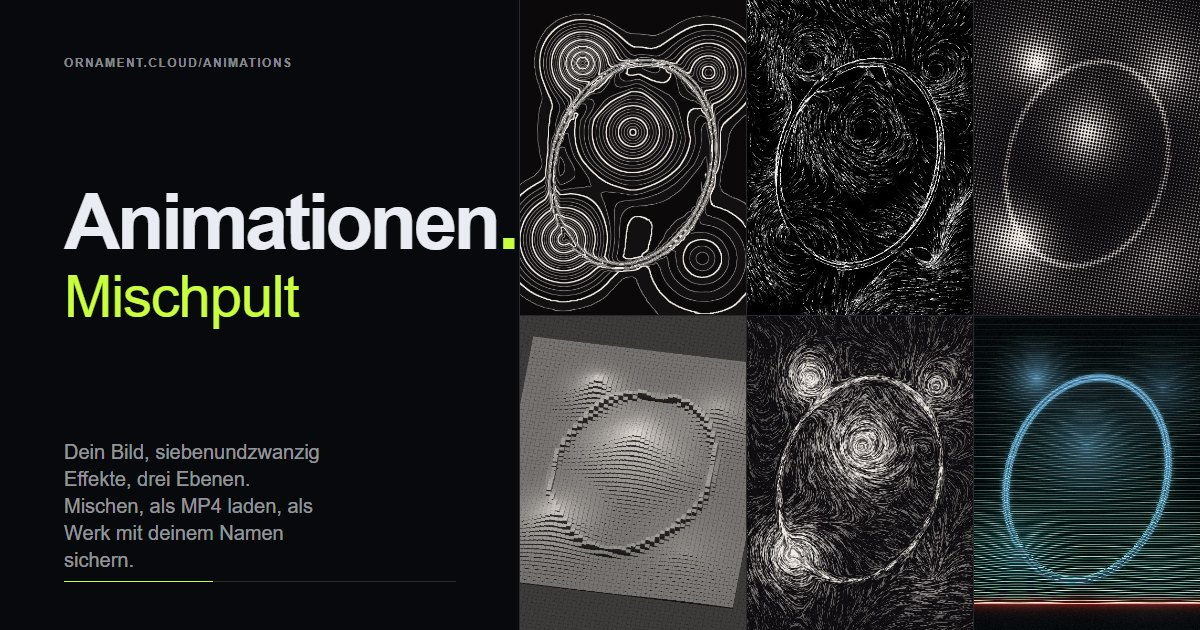
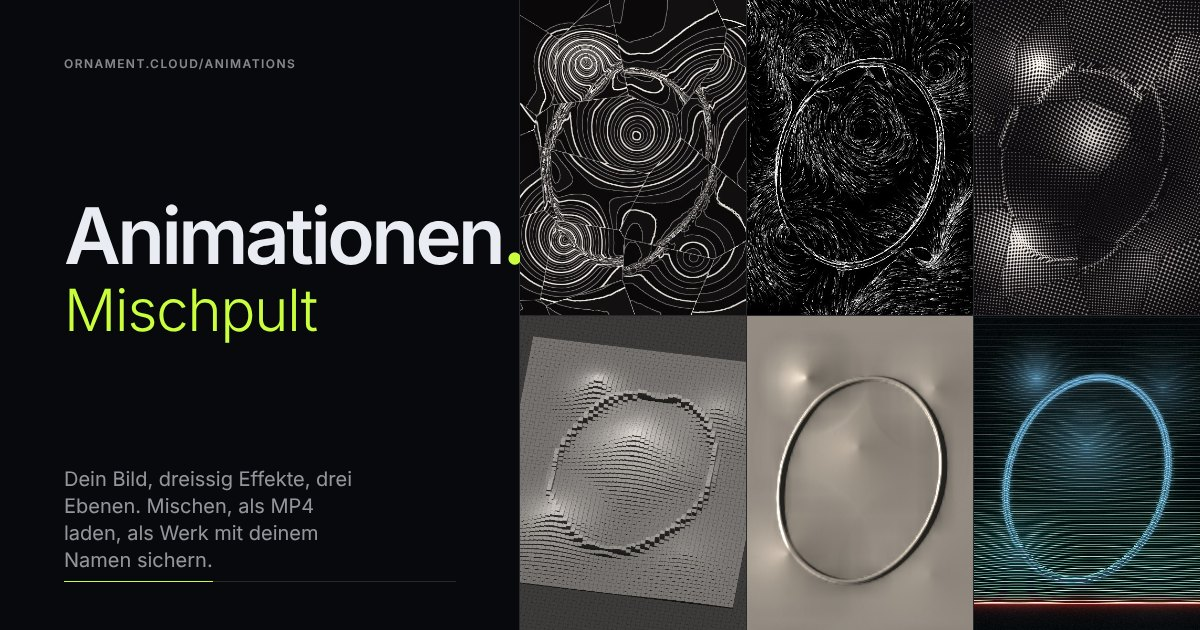
Animationen: Kubismus-Regler für Druckraster und Höhenlinien, Pinselstrom und Aquarell entfernt
Druckraster und Höhenlinien bekommen einen sechsten Regler «Kubismus»: das Bild zerfällt
in Voronoi-Ebenen (dicht im Motiv, gross auf leeren Flächen), jede gedreht, verschoben,
gekippt mit Verkürzung und mit eigener Parallaxe auf das Relief, schattiert, mit Schatten
an der höheren Nachbarebene und feinen Kanten. 0 ist die bisherige Wirkung; gesicherte
Werke ohne den Regler behalten 0 (Ersatzwert alt, wertVon()). Module ?v=4, Vorschaukarte
neu gerechnet, 30 Effekte.

Claude-Session: https://claude.ai/code/session_01EXrTH1UaK7GqZdMZYLEppk

Changed region(s): [[0.0308, 0.0, 1.0, 1.0], [0.0308, 0.6937, 0.3083, 0.9048], [0.0617, 0.0905, 0.2467, 0.1206]]

diff --git a/animations/effekte.js b/animations/effekte.js
@@ -4,10 +4,13 @@
 // und drei Referenzvideos vom 3. November 2026 (holotx, incrprl.dsgn, infinite mantra), hier neu als Shader für den Browser;
 // seit 4. November 2026 ohne Seifenblase und Holo-Kugel, dafür Effekte, die stark aus der Bildinformation schöpfen (am Ende der Liste).
 
-const r = (name, wert) => ({ name, wert });
+// alt: der Wert für Mischungen, die vor dem Regler gesichert wurden (sie behalten so ihr Aussehen), sonst gilt wert
+const r = (name, wert, alt) => alt == null ? { name, wert } : { name, wert, alt };
 // eine Wahl statt eines Schiebers: der Wert bleibt eine Zahl von 0 bis 1 (Stufe k von n ist k / (n − 1)), so laufen Adresse, Export und Werke wie bisher
 const w = (name, stufen, k = 0) => ({ name, wert: k / (stufen.length - 1), stufen });
 /** Stufe einer Wahl aus ihrem Wert 0 … 1 */
+/** Wert des Reglers k einer Ebene: gesetzt, sonst Vorgabe; fehlt er in einer älteren Mischung (andere Regler gesetzt), gilt alt */
+export const wertVon = (def, werte, k) => werte?.[k] ?? (werte?.length && def.regler[k].alt != null ? def.regler[k].alt : def.regler[k].wert);
 export const stufe = (rg, v) => Math.min(rg.stufen.length - 1, Math.max(0, Math.round(v * (rg.stufen.length - 1))));
 
 // gemeinsame Blasen (Tusche und Linsen): Lage, Drift und Atmen je Blase
@@ -31,6 +34,50 @@ vec2 strom(vec2 uv, float l, float px, float wirbel){
   vec2 g = feldG(uv, l, px), t = vec2(-g.y, g.x);
   float a = ln(P(uv) * 1.8, .6) * TAU;
   return normalize(t + (.4 + wirbel * 4.) * vec2(cos(a), sin(a)) + 1e-4);
+}`;
+
+// Kubismus (Wunsch vom 5. November 2026: Raster und Höhenlinien «weiter in richtung kubistische bzw räumliche verformung und
+// strukturierung und veränderung des ausgangsbildes»): das Bild zerfällt in Ebenen (Voronoi-Facetten, sie treiben leicht), und jede
+// sieht es aus einer eigenen Perspektive: gedreht, gezoomt, verschoben, gekippt mit Verkürzung und mit eigener Blickrichtung auf das
+// Relief der Helligkeit (Parallaxe). Gekippte Ebenen sind schattiert, eine tiefere Ebene liegt am Rand im Schatten der höheren, die
+// Kanten als feine Linien. K = 0 lässt alles wie bisher (q = p).
+const KUBUS = `
+struct Kub { vec2 q, mitte, kipp; float licht, kante, dreh, zoom; };
+Kub kubus(vec2 p, float K){
+  Kub F; F.q = p; F.mitte = p; F.kipp = vec2(0.); F.licht = 1.; F.kante = 0.; F.dreh = 0.; F.zoom = 1.;
+  if (K < .005) return F;
+  float n = mix(3.5, 9., K * K);                                     // Raster der Keime je Bildhöhe: erst grob, dann feiner
+  vec2 x = p * n, i0 = floor(x), c1 = vec2(0.), c2 = vec2(0.), g1 = vec2(0.), g2 = vec2(0.); float d1 = 1e3, d2 = 1e3;
+  for (int j = -2; j <= 2; j++) for (int i = -2; i <= 2; i++){
+    vec2 g = i0 + vec2(i, j), h = h22(g + uSeed * 5.3);
+    vec2 c = g + .5 + (h - .5) * .7 + .1 * K * vec2(sin(uPhi + h.x * TAU), cos(uPhi + h.y * TAU));
+    // Strukturierung aus dem Bild: Keime bleiben, wo das Motiv Kanten und Dunkel hat, auf leeren Flächen nur wenige (grosse Ebenen)
+    vec2 cu = UV(c / n); float Lc = lum(Kl(cu, 3.).rgb), Lg = lum(Kl(cu, 5.5).rgb);
+    float detail = clamp(abs(Lc - Lg) * 5. + (1. - Lc) * .35 + abs(Lc - .5) * .2, 0., 1.);
+    if (h12(g * 1.7 + uSeed + 9.) > mix(.3, 1., detail)) continue;
+    float d = dot(x - c, x - c);
+    if (d < d1){ d2 = d1; c2 = c1; g2 = g1; d1 = d; c1 = c; g1 = g; } else if (d < d2){ d2 = d; c2 = c; g2 = g; }
+  }
+  float k = uRes.y / 1350., ed = abs(dot(x - .5 * (c1 + c2), normalize(c2 - c1 + 1e-5))) / n * uRes.y;   // Abstand zur Kante in Pixeln
+  vec2 hA = h22(g1 + uSeed * 5.3 + 17.), hB = h22(g1 + uSeed * 5.3 + 41.), m = c1 / n, v = p - m;
+  float z1 = h12(g1 + uSeed + 3.), z2 = h12(g2 + uSeed + 3.);
+  float e = .04, L0 = lum(Kl(UV(m), 3.).rgb);
+  vec2 gr = vec2(lum(Kl(UV(m + vec2(e, 0.)), 3.).rgb) - lum(Kl(UV(m - vec2(e, 0.)), 3.).rgb),
+                 lum(Kl(UV(m + vec2(0., e)), 3.).rgb) - lum(Kl(UV(m - vec2(0., e)), 3.).rgb)) / (2. * e);
+  F.kipp = ((hA - .5) * 1.5 + gr * .12) * K;                         // Neigung der Ebene: Zufall und das Gefälle des Bildes
+  F.dreh = (hB.x - .5) * .8 * K + .06 * K * sin(uPhi + hB.y * TAU);
+  F.zoom = 1. + (hB.y - .5) * .55 * K;
+  float pers = 1. / max(1. + dot(F.kipp, v) * 1.3, .35);             // Verkürzung der gekippten Ebene
+  vec2 versatz = (hA.yx - .5) * .07 * K + .02 * K * vec2(cos(uPhi + hA.x * TAU), sin(uPhi + hA.y * TAU));
+  vec2 q = m + rot(F.dreh) * v * F.zoom * pers + versatz;
+  vec2 blick = normalize(hB - .5 + 1e-3) * .07 * K;                   // Mehrperspektive: jede Ebene blickt anders auf das Relief
+  q -= blick * (lum(Kl(UV(q), 2.).rgb) - L0);
+  F.q = q; F.mitte = m;
+  vec3 nr = normalize(vec3(-F.kipp * .9, 1.)), Ld = normalize(vec3(-.5 + .25 * sin(uPhi), .55, .75));
+  F.licht = mix(1., clamp(dot(nr, Ld) / Ld.z, .45, 1.35), .7 * K);
+  F.licht *= 1. - .4 * K * step(z1, z2) * exp(-ed / (16. * k));      // Schatten der höheren Nachbarebene
+  F.kante = clamp(1.1 * k + .5 - ed, 0., 1.) * smoothstep(.08, .35, K);
+  return F;
 }`;
 
 export const EFFEKTE = {
@@ -322,44 +369,15 @@ vec4 effekt(vec2 uv){
   // mit dem Bild arbeiten und es auch bei «Bild zeigen: aus» klar lesbar machen). Sie lesen Helligkeit als Höhe, ihren Gradienten als
   // Kanten und Strömung (die Senkrechte zum Gradienten folgt den Konturen und ist quellenfrei) und die Farben als Druckauszüge.
 
-  pinsel: {
-    name: "Pinselstrom", herkunft: "Line Integral Convolution: Pinselstriche fliessen den Konturen des Bildes entlang, dunkel heisst mehr Tusche",
-    regler: [r("Strichlänge", .55), r("Fluss", .3), r("Korn", .4), r("Kontrast", .55), r("Wirbel", .35)],
-    glsl: `${FELD}
-float korn(vec2 x, float cell){
-  vec2 c = x / cell, i = floor(c), f = c - i; f = f * f * (3. - 2. * f);
-  return mix(mix(h12(i + uSeed * 9.), h12(i + vec2(1, 0) + uSeed * 9.), f.x), mix(h12(i + vec2(0, 1) + uSeed * 9.), h12(i + 1. + uSeed * 9.), f.x), f.y);
-}
-vec4 effekt(vec2 uv){
-  float k = uRes.y / 1350., lg = mix(12., 46., P0) * k, cell = mix(1.4, 4.5, P2) * k, st = lg / 12.;
-  float m = 1. + floor(P1 * 2.999);    // eine bis drei Wellen laufen pro Schlaufe durch jeden Strich
-  vec2 x0 = uv * uRes; float sum = 0., ws = 0.; vec3 cs = vec3(0.);
-  for (int s = -1; s <= 1; s += 2){
-    vec2 x = x0;
-    for (int i = 0; i < 12; i++){
-      float a = float(s) * (float(i) + .5) / 12.;                       // Lage im Strich, −1 … 1
-      float w = .5 + .5 * cos(PI * a);                                   // Hann-Fenster: der Strich läuft weich aus
-      float welle = 1. + .8 * cos(TAU * (a * 1.5 - uT * m));           // die Welle wandert den Strich entlang
-      vec2 u = x / uRes;
-      sum += w * welle * korn(x, cell); ws += w * welle;
-      cs += w * Kl(u, 1.).rgb;
-      x += float(s) * st * strom(u, 2.5, 4., P4);
-    }
-  }
-  float r = clamp((sum / ws - .5) * mix(2.5, 7., P3) + .5, 0., 1.);
-  vec3 farbe = cs / (12. * 2. * .5);                                    // Farbe, entlang des Strichs verwischt
-  float D = 1. - lum(farbe);
-  vec3 papier = vec3(.95, .925, .9), tusche = vec3(.06, .05, .06);
-  vec3 aus = mix(papier, tusche, clamp(D * 1.35 + (.5 - r) * 1.1 - .12, 0., 1.));   // ohne Bild: Tusche auf Papier
-  vec3 an = farbe * (.45 + 1.1 * r);
-  return vec4(clamp(mix(aus, an, uZeigen), 0., 1.), 1.);
-}`,
-  },
+  // Pinselstrom und Aquarell entfernt am 5. November 2026 (Wunsch: «Der pinseleffekt kann weg», «Ebenso: aquarell»)
 
   raster: {
     name: "Druckraster", herkunft: "Halbton: vier gedrehte Raster wie im Offsetdruck, Punkte verschmelzen als Distanzfelder im Dunkeln und atmen in Wellen",
-    regler: [r("Raster", .45), r("Drehung", .5), r("Welle", .5), r("Verschmelzen", .5), r("Negativ", 0)],
-    glsl: `float smin(float a, float b, float k){ float h = max(k - abs(a - b), 0.) / k; return min(a, b) - h * h * k * .25; }
+    // Kubismus (5. November 2026): 0 ist das bisherige Druckraster, darüber zerfällt es in gekippte, verschobene Ebenen, jede mit
+    // eigenem Rasterwinkel und eigener Perspektive auf das Bild
+    regler: [r("Raster", .45), r("Drehung", .5), r("Welle", .5), r("Verschmelzen", .5), r("Negativ", 0), r("Kubismus", .5, 0)],
+    glsl: `${KUBUS}
+float smin(float a, float b, float k){ float h = max(k - abs(a - b), 0.) / k; return min(a, b) - h * h * k * .25; }
 // Deckung eines Rasters: Kanal ch (0 Helligkeit, 1–3 Cyan/Magenta/Gelb, 4–6 Rot/Grün/Blau, 7 Schwarz), Winkel ang, N Zellen je Bildhöhe
 float schirm(vec2 p, float ang, float N, int ch){
   mat2 R = rot(ang); vec2 q = R * p * N, ci = floor(q);
@@ -376,10 +394,11 @@ float schirm(vec2 p, float ang, float N, int ch){
   return smoothstep(aa, -aa, d);
 }
 vec4 effekt(vec2 uv){
-  vec2 p = P(uv); float N = mix(150., 40., P0);
+  Kub F = kubus(P(uv), P5);
+  vec2 p = F.q; float N = mix(150., 40., P0);
   // Drehung: unter einem Drittel pendelt das Raster, sonst dreht es eine Viertel- oder halbe Drehung pro Schlaufe (das Raster ist
   // vierfach symmetrisch, darum schliesst die Schlaufe)
-  float n = max(floor(P1 * 2.999), uLauf), a0 = n < .5 ? .25 * sin(uPhi) : n * uPhi / 4.;
+  float n = max(floor(P1 * 2.999), uLauf), a0 = (n < .5 ? .25 * sin(uPhi) : n * uPhi / 4.) + F.dreh * .6;   // jede Ebene mit eigenem Rasterwinkel
   vec3 papier = vec3(.95, .925, .9), nacht = vec3(.043, .035, .039), col;
   if (P4 < .5){
     if (uZeigen < .5) col = mix(papier, vec3(.06, .05, .06), schirm(p, a0 + .785, N, 0));   // ohne Bild: ein schwarzes Raster
@@ -394,7 +413,9 @@ vec4 effekt(vec2 uv){
     if (uZeigen < .5) col = mix(nacht, papier, schirm(p, a0 + .785, N, 8));                  // ohne Bild: helle Punkte auf Schwarz
     else col = nacht + vec3(schirm(p, a0 + .262, N, 4), schirm(p, a0 + 1.309, N, 5), schirm(p, a0, N, 6)) * .95;   // Licht: Rot, Grün, Blau
   }
-  return vec4(col, 1.);
+  // Kubismus: die Ebenen als Flächen im Licht, ihre Kanten als feine Linien (auf Papier dunkel, im Negativ hell)
+  col = P4 < .5 ? mix(col * F.licht, vec3(.06, .05, .06), F.kante * .75) : mix(col * F.licht, papier, F.kante * .6);
+  return vec4(clamp(col, 0., 1.), 1.);
 }`,
   },
 
@@ -424,22 +445,27 @@ vec4 effekt(vec2 uv){
 
   hoehenlinien: {
     name: "Höhenlinien", herkunft: "Topografie: die Helligkeit als Gelände, Höhenlinien steigen langsam bergauf, jede vierte kräftiger",
-    regler: [r("Linien", .45), r("Steigen", .3), r("Strich", .4), r("Wellen", .3), r("Flächen", .35)],
+    // Kubismus (5. November 2026): 0 ist die bisherige Karte, darüber zerfällt das Gelände in gekippte Ebenen, jede aus eigener
+    // Perspektive; die Neigung einer Ebene legt sich als Gefälle auf ihr Gelände, so laufen die Linien darin wie Schraffuren
+    regler: [r("Linien", .45), r("Steigen", .3), r("Strich", .4), r("Wellen", .3), r("Flächen", .35), r("Kubismus", .5, 0)],
     glsl: `${FELD}
+${KUBUS}
 vec4 effekt(vec2 uv){
-  vec2 p = P(uv);
-  float h = .6 * hoehe(uv, 1.5) + .4 * hoehe(uv, 3.5) + lfbm(p * 2.5, .7) * .05 * P3;
+  Kub F = kubus(P(uv), P5);
+  vec2 p = F.q, u = UV(p);
+  float h = .6 * hoehe(u, 1.5) + .4 * hoehe(u, 3.5) + lfbm(p * 2.5, .7) * .05 * P3 + dot(F.kipp, p - F.mitte) * 1.2;
   float N = mix(8., 46., P0), sp = 4. * floor(1. + P1 * 1.999);   // vier oder acht Linien pro Schlaufe: die kräftigen schliessen an
-  float f = h * N - uT * sp, fr = fract(f), aa = max(fwidth(f), 1e-4);
+  float f = h * N - uT * sp, fr = fract(f), aa = clamp(fwidth(f), 1e-4, .5);   // gedeckelt: an den Kanten der Ebenen springt f
   float d = min(fr, 1. - fr) / aa, k = uRes.y / 1350.;
   float idx = mod(floor(f + .5), 4.), w = mix(.5, 1.8, P2) * k * (idx < .5 ? 2.4 : 1.);
   float linie = clamp(w - d + .5, 0., 1.);
   float band = mod(floor(f), 2.) * .5 + .5 * h;                         // Höhenstufen als leise Flächen
   vec3 nacht = vec3(.043, .035, .039), papier = vec3(.95, .925, .9);
   vec3 aus = mix(nacht + papier * band * .16 * P4, papier, linie * (.65 + .35 * step(idx, .5)));
-  vec3 im = Ql(uv, 0.).rgb;
+  vec3 im = Ql(u, 0.).rgb;
   vec3 an = mix(im * (.22 + .3 * P4 * band), mix(im, vec3(1.), .35), linie);
-  return vec4(mix(aus, an, uZeigen), 1.);
+  vec3 col = mix(aus, an, uZeigen) * F.licht;
+  return vec4(clamp(mix(col, papier, F.kante * .55), 0., 1.), 1.);
 }`,
   },
 
@@ -636,27 +662,6 @@ vec4 effekt(vec2 uv){
 }`,
   },
 
-  aquarell: {
-    name: "Aquarell", herkunft: "Watercolor Bleed: das Bild in Lasuren, die nass ineinanderlaufen, Pigment sammelt sich am Rand, Papierkörnung",
-    regler: [r("Nässe", .6), r("Lasuren", .45), r("Ränder", .6), r("Körnung", .5), r("Pigment", .3)],
-    glsl: `vec4 effekt(vec2 uv){
-  vec2 p = P(uv), px = uv * uRes;
-  vec2 w = vec2(lfbm(p * 2.6, .7), lfbm(p * 2.6 + 5.2, .7)) * .035 * P0;   // die Farbe läuft aus
-  vec2 u = uv + w + vec2(lfbm(p * 9., .9), lfbm(p * 9. + 2.7, .9)) * .006 * P0;
-  vec3 c = Kl(u, 2.).rgb; float L = lum(c);
-  float lv = mix(3., 8., P1), e = (1. - L) * lv + lfbm(p * 7. + 3., .8) * .5 * P0;
-  float st = floor(e), f = fract(e), dk = clamp(st, 0., lv) / lv;            // Deckung der Lasur in Stufen
-  float rand = exp(-(1. - f) * 12.) * P2 * step(.5, e);                       // Pigment sammelt sich an der Kante zur helleren Stufe
-  float korn = (gn(vec3(px / (2.2 * uRes.y / 1350.), uSeed)) * .5 + h12(floor(px)) - .5) * P3;
-  vec3 papier = vec3(.96, .94, .9) * (1. - .04 * P3 * gn(vec3(px * .02, 7.)));
-  vec3 pig = uZeigen > .5 ? mix(c, Kl(u, 4.).rgb, .3) : mix(vec3(.16, .22, .42), vec3(.42, .25, .16), P4);   // ohne Bild: eine Farbe (Indigo bis Sepia)
-  vec3 sattTon = pig / max(lum(pig), .05) * .55;
-  vec3 pc = uZeigen > .5 ? mix(pig, sattTon, .25) : pig;
-  float dicht = clamp(dk * (1. + .25 * korn) + rand * .35, 0., 1.);
-  vec3 col = papier * mix(vec3(1.), pc / max(papier, .05), dicht);           // subtraktiv auf Papier
-  return vec4(clamp(col, 0., 1.), 1.);
-}`,
-  },
 
   voxel: {
     name: "Voxel", herkunft: "Instancing: das Bild als Feld aus tausenden Quadern, die Höhe aus der Helligkeit, eine Welle läuft durch, die Kamera schwenkt",

diff --git a/animations/index.html b/animations/index.html
@@ -21,20 +21,20 @@ Steht für sich wie PHORMA (Ausnahme in tests/navigation.test.mjs), noindex, nic
 Rechnet alles im Browser (WebGL 2, motor.js), das MP4 (1080 × 1350, 30 fps, 12 s, nahtlose Schlaufe) mit WebCodecs und mp4-muxer aus vendor/.
 -->
 <meta name="robots" content="noindex">
-<meta name="description" content="Dein Bild, zweiunddreissig Effekte, drei Ebenen: Animationen mischen, als MP4 laden und als Werk mit deinem Namen sichern.">
+<meta name="description" content="Dein Bild, dreissig Effekte, drei Ebenen: Animationen mischen, als MP4 laden und als Werk mit deinem Namen sichern.">
 <meta property="og:type" content="website">
 <meta property="og:site_name" content="ornament.cloud">
 <meta property="og:locale" content="de_CH">
 <meta property="og:url" content="https://ornament.cloud/animations/">
 <meta property="og:title" content="Animationen">
-<meta property="og:description" content="Dein Bild, zweiunddreissig Effekte, drei Ebenen: Animationen mischen, als MP4 laden und als Werk mit deinem Namen sichern.">
+<meta property="og:description" content="Dein Bild, dreissig Effekte, drei Ebenen: Animationen mischen, als MP4 laden und als Werk mit deinem Namen sichern.">
 <meta property="og:image" content="https://ornament.cloud/animations/og-animationen.jpg">
 <meta property="og:image:width" content="1200">
 <meta property="og:image:height" content="630">
 <meta property="og:image:alt" content="Animationen auf ornament.cloud: links das Wort «Animationen» mit gelbgrünem Punkt, rechts sechs Effekte aus Höhenlinien, Strömung, Druckraster und Voxeln auf Schwarz.">
 <meta name="twitter:card" content="summary_large_image">
 <meta name="twitter:title" content="Animationen">
-<meta name="twitter:description" content="Dein Bild, zweiunddreissig Effekte, drei Ebenen: Animationen mischen, als MP4 laden und als Werk mit deinem Namen sichern.">
+<meta name="twitter:description" content="Dein Bild, dreissig Effekte, drei Ebenen: Animationen mischen, als MP4 laden und als Werk mit deinem Namen sichern.">
 <meta name="twitter:image" content="https://ornament.cloud/animations/og-animationen.jpg">
 <meta name="color-scheme" content="dark light">
 <meta name="theme-color" content="#08090c" media="(prefers-color-scheme: dark)">
@@ -285,7 +285,7 @@ input[type="range"]:focus-visible { outline: none; }
 <header class="kopf">
   <div class="kopf-innen">
     <a class="marke" href="../">ornament<span class="punkt">.</span>cloud</a>
-    <p class="zeile">Animationen <span class="leise">— dein Bild, zweiunddreissig Effekte, drei Ebenen</span></p>
+    <p class="zeile">Animationen <span class="leise">— dein Bild, dreissig Effekte, drei Ebenen</span></p>
     <p class="kurz">Animationen</p>
     <nav class="ansichten" aria-label="Ansicht">
       <button type="button" data-ansicht="mischpult" aria-pressed="true"><small>01</small>Mischpult</button>
@@ -354,7 +354,7 @@ input[type="range"]:focus-visible { outline: none; }
   </section>
 
   <section id="info" class="ansicht" aria-label="Info" hidden>
-    <p class="gross">Dein Bild, zweiunddreissig Effekte,<br>bis zu drei <i>Ebenen</i> übereinander.</p>
+    <p class="gross">Dein Bild, dreissig Effekte,<br>bis zu drei <i>Ebenen</i> übereinander.</p>
     <dl class="kolophon">
       <div><dt>Technik</dt><dd>WebGL 2 im Browser, jeder Effekt ein Shader. MP4 mit WebCodecs in 4:5, 1:1 oder 16:9, 30 Bilder pro Sekunde.</dd></div>
       <div><dt>Schlaufe</dt><dd>12, 30 oder 60 Sekunden, nahtlos: das letzte Bild geht ins erste über.</dd></div>
@@ -393,6 +393,6 @@ input[type="range"]:focus-visible { outline: none; }
 </div></footer>
 
 <div class="export" id="export" hidden role="status"><div class="export-zeile"><span id="export-text">MP4 · 0 %</span><button type="button" id="export-stop">Abbrechen</button></div><div class="fortschritt" aria-hidden="true"><i></i></div></div>
-<script type="module" src="seite.js?v=3"></script>   <!-- Versionsmarke: bei Änderungen an den Modulen hier und in allen Importen hochzählen (Zwischenspeicher 10 Minuten, .htaccess) -->
+<script type="module" src="seite.js?v=4"></script>   <!-- Versionsmarke: bei Änderungen an den Modulen hier und in allen Importen hochzählen (Zwischenspeicher 10 Minuten, .htaccess) -->
 </body>
 </html>

diff --git a/animations/seite.js b/animations/seite.js
@@ -1,9 +1,9 @@
 // Animationen – die Seite: Mischpult (das eigene Bild, Grund, drei Ebenen, Schalter, Sichern) mit den gesicherten Werken darunter
 // (gestreutes Raster, beim Darüberfahren lebendig, Klick lädt ins Mischpult) und Info. Ein Motor zeichnet für alles; die sichtbare
 // Leinwand übernimmt sein Bild. Seit 4. November 2026 ohne Reel, Beispielbilder und vorgefertigte Werke.
-import { motorErstellen, videoErstellen, DAUER, LAENGEN, MODI } from "./motor.js?v=3";
-import { EFFEKTE, EFFEKT_IDS, stufe } from "./effekte.js?v=3";
-import { zufall, EIGEN } from "./rezepte.js?v=3";
+import { motorErstellen, videoErstellen, DAUER, LAENGEN, MODI } from "./motor.js?v=4";
+import { EFFEKTE, EFFEKT_IDS, stufe, wertVon } from "./effekte.js?v=4";
+import { zufall, EIGEN } from "./rezepte.js?v=4";
 
 const $ = (id) => document.getElementById(id);
 const el = (tag, attr = {}, ...kinder) => {
@@ -202,8 +202,8 @@ function ebeneFeld(e, i) {
   regeln.append(el("div", { class: "zeile2" }, quelle, modus));
   regeln.append(regler("Deckkraft", e.deckkraft ?? 1, (v) => { e.deckkraft = v; }));
   def.regler.forEach((r, k) => {
-    const setzen = (v) => { e.werte ??= []; for (let j = 0; j < def.regler.length; j++) e.werte[j] ??= def.regler[j].wert; e.werte[k] = v; };
-    regeln.append(r.stufen ? stufenWahl(r, e.werte?.[k] ?? r.wert, setzen) : regler(r.name, e.werte?.[k] ?? r.wert, setzen));
+    const setzen = (v) => { const alt = def.regler.map((_, j) => wertVon(def, e.werte, j)); e.werte = alt; e.werte[k] = v; };
+    regeln.append(r.stufen ? stufenWahl(r, wertVon(def, e.werte, k), setzen) : regler(r.name, wertVon(def, e.werte, k), setzen));
   });
   fs.append(regeln);
   return fs;

diff --git a/animations/motor.js b/animations/motor.js
@@ -1,7 +1,7 @@
 // Animationen – der Motor: ein WebGL-2-Kontext rechnet bis zu drei Ebenen übereinander (je Effekt, Quelle, Mischmodus, Deckkraft)
 // und gibt das Bild auf eine eigene Leinwand aus, die Reel, Werke und Mischpult abzeichnen. Alles hängt nur von der Zeit t in der
 // Schlaufe ab (phi = 2π·t/DAUER, ganzzahlige Frequenzen): Bild N ist wieder Bild 0, und das MP4 entsteht Bild für Bild.
-import { EFFEKTE } from "./effekte.js?v=3";
+import { EFFEKTE, wertVon } from "./effekte.js?v=4";
 
 export const DAUER = 12, FPS = 30, LAENGEN = [12, 30, 60];
 /** Länge der Schlaufe eines Stapels in Sekunden (Vorgabe 12) */
@@ -193,7 +193,7 @@ export function motorErstellen() {
       textur(pr, "uBild", 0, bild.tex); textur(pr, "uUnten", 1, acc[i].tex);
       fp(pr, "uRes", b, h); fp(pr, "uFit", fit[0], fit[1]); fp(pr, "uLod", lod);
       fp(pr, "uPhi", tz * Math.PI * 2); fp(pr, "uT", tz); fp(pr, "uPsi", tt * Math.PI * 2); fp(pr, "uL", D / DAUER); fp(pr, "uLauf", stapel.durchlauf ? 1 : 0); fp(pr, "uSeed", e.seed ?? 0); fp(pr, "uQuelle", e.quelle === "unten" ? 1 : 0); fp(pr, "uZeigen", stapel.ohneBild ? 0 : 1);
-      const w = def.regler.map((r, k) => e.werte?.[k] ?? r.wert);
+      const w = def.regler.map((r, k) => wertVon(def, e.werte, k));
       gl.uniform1fv(pr.ort("uP[0]"), Float32Array.from({ length: 6 }, (_, k) => w[k] ?? 0));
       if (def.punkte) {
         const { cols, rows } = def.punkte(w, a, h);

diff --git a/animations/rezepte.js b/animations/rezepte.js
@@ -1,7 +1,7 @@
 // Animationen – «Neu mischen»: eine zufällige Mischung aus den Effekten für das eigene Bild. Seit 4. November 2026 ohne Beispielbilder
 // und ohne vorgefertigte Werke (Wunsch: «keine beispielbilder»): jedes Werk bringt sein Bild mit, gesichert werden sie in werke.php.
-import { EFFEKTE, EFFEKT_IDS } from "./effekte.js?v=3";
-import { MODI } from "./motor.js?v=3";
+import { EFFEKTE, EFFEKT_IDS } from "./effekte.js?v=4";
+import { MODI } from "./motor.js?v=4";
 
 /** das eigene Bild im Mischpult: hochgeladen oder auf die Bühne gezogen, bleibt im Browser, bis das Werk gesichert wird */
 export const EIGEN = "eigen";

diff --git a/README.md b/README.md
@@ -275,7 +275,7 @@ Alles liegt auf dem eigenen Server – es werden keine Dateien von claude.ai, CD
   **Auflösung doppelt** (seit 19. Oktober 2026, Wunsch: «Ich möchte Videos aus PHORMA III je nachdem neu rendern»): unter «Format» einfach oder doppelt (4K: 2160 × 2700, 2160 × 3840, 3840 × 2160), gemerkt (`phorma-iii.faktor`), auf dem Telefon nicht angeboten. Gezeichnet wird weiter in der Filmgrösse, Video und Standbild mit doppeltem Massstab (`sz.faktor`; WebGL rechnet in der Pixelgrösse der Leinwand) – neu gerechnet, nicht hochskaliert; Foto und Text in Exportgrösse (`S.fotoGross`, auch als Textur der Bühne; Fotos am Computer bis 3840 statt 2400 Punkte). Die Fäden von Gewebe, Irrfahrt und Traube sind WebGL-Linien von 1 px: doppelt zeichnet `fein()` in `buehne.js` sie zweimal zwei Mal um je einen Pixel versetzt mit halber Tinte (`uVersatz`, `uStrich`) – so gleicht das Bild dem einfachen, nur glatter (mit bloss mehr Tinte je Linie liefen beim Farbsaum die Kanäle grün und violett auseinander). H.264 ab Stufe 5.1 (`avc1.640033`), rund dreimal die Datenrate; ohne H.264-Encoder im Browser ein Hinweis statt einer Aufnahme in Echtzeit. Dauert etwa viermal so lange.
 - `alpha/hochrendern/` ist «Hochrendern» (Prototyp seit 19. Oktober 2026, Wunsch: «Ich möchte allgemein Video hochrendern können … Upscaler-Webseite»; steht für sich wie PHORMA, Ausnahme in `tests/navigation.test.mjs`; nicht in der Alpha-Übersicht): ein fertiges Video Bild für Bild mit Real-ESRGAN (kompakte Fassung, BSD-3) auf der Grafikkarte des eigenen Geräts ×2 oder ×4 hochrechnen, höchstens 4K, als MP4 mit Ton. `netz.js` ist das Netz in WebGPU (3 × 3-Faltungen mit PReLU, PixelShuffle ×4 plus Eingabe; in Kacheln mit so viel Rand, wie das Netz Faltungen hat – innen genau wie das ganze Bild; ×2 im Mittel aus 2 × 2), die Gewichte als float16 in `modelle/` (Grafik `realesr-animevideov3`, 1,2 MB; Film `realesr-general-x4v3`, 2,4 MB; aus `tools/hochrendern/web-gewichte.py`). Gegen onnxruntime geprüft: 64 dB, höchstens 1/255 Abweichung, Kacheln bitgleich. `lesen.js` liest MP4/MOV mit mp4box und WebCodecs bildgenau (sonst durch Spulen), jedes Bild über eine Leinwand (direkt aus einem VideoFrame zerbrach in Chromium mit SwiftShader die Grafik); geschrieben wird mit `mp4Schreiber` aus `../phorma-iii/tonspur.js` (seither auch VP9 und AV1, wo der Browser kein H.264 kodiert), der Ton neu als AAC. Probe an einer Stelle mit Vergleich vorher/nachher (Regler, 1 : 1) und Schätzung der Dauer; Fortschritt mit Restzeit, Abbrechen, Bildschirm bleibt wach. Eigener Speicher `hochrendern.*`, Marken `?v=`.
 - `alpha/not-a-zettelkasten/` ist «This is not a Zettelkasten» (Animation seit 1. November 2026, Wunsch: «eine Animation inklusive langsamen Farbwechseln und verschieden Wolkenformen und setze dazwischen (immer nur eins auf mal) this / is / not / a / Zettelkasten»; danach «nur ein Drittel der Längen» und «wildere Formen»; abgelegt auf Wunsch «Artefakt ablegen auf ornament.cloud»): 26 000 Partikel (auf dem Handy 16 000, three.js aus `vendor/three/`) wechseln zwischen zehn Wolkenformen (Lorenz- und Clifford-Attraktor, Torusknoten 3 : 7, Explosion, Ranken, Splitter, Krone, Wirbelsturm, Doppelhelix, Supernova) und je einem Wort, Übergang 1,2 s, Wolke 1,4 s, Wort 2,6 s; die Farben gleiten in 11 s von einem der sieben Klimas zum nächsten. Klick pausiert. Schrift Cormorant Garamond kursiv (SIL OFL, im Ordner). Dazu zum Herunterladen, beide 4 : 5 ohne Schrift unten (Wunsch: «Als 4:5 video für social media. Ohne text ganz unten» und «Als download 4:5 gif ohne text darunter»): `this-is-not-a-zettelkasten-4x5.mp4` (1080 × 1350, 30 fps, 33 s, crf 20, `-tune grain`, ohne Ton, 29 MB) und `this-is-not-a-zettelkasten-4x5.gif` (432 × 540, 12 fps, geordnetes Dithering, 9,6 MB); unten links verlinkt. Gerechnet Bild für Bild in Chromium (fester Zeitschritt 1/30 s, verlustfreie PNG), Ein- und Ausblende 0,6 / 0,8 s. Der Hintergrund ist seit dem 1. November 2026 (abends) kein CSS-Verlauf mehr, sondern wird in WebGL gezeichnet, mit feinem Rauschen (±1,6 Stufen); im Video liegt zusätzlich ein festes Korn (Stärke 5) über dem Bild – Rückmeldung: «Die Hintergrundfarbe ist nicht stabil, sondern zeigt starke Schlieren» (Farbstufen im dunklen Verlauf, durch die Kompression verstärkt). Steht für sich wie PHORMA (Ausnahme in `tests/navigation.test.mjs`), nicht in der Alpha-Übersicht, nicht verlinkt.
-- `animations/` ist «Animationen» (seit 3. November 2026, Wunsch: «Bau auf ornament.cloud eine neue Seite /animations. Sie soll mit meinen Bildern und den bisher nachgebauten Effekten neue Effekte zusammensetzen»; **seit 4. November 2026 neu geschnitten**, Wünsche: «viel schöner im stile eine designstudios … für laptop und smartphone: modern, professionell», «nur mischpult und info. werke können gesichert werden und werden abgelegt mit ersteller name (und sehr nice präsentiert auf der seite)», «keine beispielbilder und kein christian strickler», «der "neu mischen" knopf soll gut sichtbar sein beim mischpult», «eine tolle vorschaukachel für social media»): zwei Ansichten. **Mischpult**: der Besucher bringt sein Bild (wählen oder auf die Bühne ziehen, verkleinert auf 1600 px, bleibt im Browser), 32 Effekte als Shader (seit 5. November 2026 auch Gewebe, Lichtwürfel und Traube aus PHORMA III sowie Physarum und Physarum-Struktur aus PHORMA II, alle aus den Formen des Bildes) (`effekte.js`, je drei bis sechs Regler), `motor.js` rechnet in WebGL 2 bis zu drei Ebenen übereinander (Mischmodus normal, multiplizieren, Differenz, Bildschirm, überlagern; Deckkraft; Quelle Bild oder die Ebenen darunter), alles als Funktion der Zeit in einer nahtlosen Schlaufe (12, 30 oder 60 s, «Durchlauf» statt hin und zurück, «Bild zeigen: aus»); **«Neu mischen»** steht gross unter der Bühne (`rezepte.js`, würfelt nur die Effekte, das Bild bleibt), daneben «MP4 laden» (1080 × 1350, 30 fps, WebCodecs mit `vendor/mp4-muxer-5.2.2/`, sonst MediaRecorder); Pause (Leertaste, Klick auf die Bühne), Standbild (PNG 1080 × 1350), Link mit der Mischung in der Adresse `#m=` (ein eigenes Bild steht nicht im Link, ein gesichertes Werk mit seiner Kennung). **Werk sichern**: Titel (frei) und Name, dann legt `werke.php` Bild und Mischung in `animations/werke/` ab (ID.jpg mit GD neu geschrieben, ID.json, index.json; nur POST von ornament.cloud, Bild bis 2 MB und 2000 px, Name bis 40 Zeichen, Titel bis 60, Mischung nur aus bekannten Feldern, 6 Werke je Adresse und Stunde, höchstens 2000; der Browser des Erstellers behält einen Schlüssel zum Löschen). Der Ordner ist in `tools/hostpoint/ausschluss.txt` und `.gitignore` ausgenommen. Die **Werke** stehen unter dem Mischpult im gestreuten Raster (drei Kachelgrössen, Nummer, Titel, «von Name · Datum»), beim Darüberfahren lebendig, Klick lädt sie ins Mischpult (`#w=ID`), eigene lassen sich löschen; ohne Antwort der Ablage läuft die Seite weiter, nur Sichern bleibt aus. **Info**: grosse Zeile, Kolophon, «So geht es», Effekte, Ebenen. Gestaltung nach `animations/DESIGN.md`: dunkler Grund `#0b090a` wie /gamma, hell nach Systemeinstellung, ein Akzent `#f08a5d`, Haarlinien, Instrument Sans und Newsreader kursiv aus `vendor/fonts/`; auf dem Handy die Ansichten als feste Leiste unten. Vorschaukarte `animations/og-animationen.jpg` (1200 × 630) erzeugt `tools/animations-og.mjs` mit dem Motor der Seite (sechs Effekte ohne Bild). Steht für sich wie PHORMA (Ausnahme in `tests/navigation.test.mjs`), `noindex`, nicht in der Sitemap und nicht verlinkt, bis Christian sie freigibt. Tests: `node --test tests/animations.test.mjs`, `NODE_PATH=$(npm root -g) node tests/animations.e2e.mjs` (werke.php vorgetäuscht) und `node --test tests/animations-php.test.mjs` (braucht php, sonst übersprungen)
+- `animations/` ist «Animationen» (seit 3. November 2026, Wunsch: «Bau auf ornament.cloud eine neue Seite /animations. Sie soll mit meinen Bildern und den bisher nachgebauten Effekten neue Effekte zusammensetzen»; **seit 4. November 2026 neu geschnitten**, Wünsche: «viel schöner im stile eine designstudios … für laptop und smartphone: modern, professionell», «nur mischpult und info. werke können gesichert werden und werden abgelegt mit ersteller name (und sehr nice präsentiert auf der seite)», «keine beispielbilder und kein christian strickler», «der "neu mischen" knopf soll gut sichtbar sein beim mischpult», «eine tolle vorschaukachel für social media»): zwei Ansichten. **Mischpult**: der Besucher bringt sein Bild (wählen oder auf die Bühne ziehen, verkleinert auf 1600 px, bleibt im Browser), 30 Effekte als Shader (seit 5. November 2026 auch Gewebe, Lichtwürfel und Traube aus PHORMA III sowie Physarum und Physarum-Struktur aus PHORMA II, alle aus den Formen des Bildes; Pinselstrom und Aquarell am selben Tag entfernt, Wunsch: «Der pinseleffekt kann weg», «Ebenso: aquarell»; Druckraster und Höhenlinien haben seither einen sechsten Regler «Kubismus», Wunsch: «weiter in richtung kubistische bzw räumliche verformung und strukturierung und veränderung des ausgangsbildes»: das Bild zerfällt in Ebenen (Voronoi-Facetten, dicht im Motiv, gross auf leeren Flächen), jede gedreht, verschoben, gekippt mit Verkürzung und mit eigenem Blick auf das Relief der Helligkeit, schattiert und mit Schatten an der Kante; 0 ist die bisherige Wirkung, Werke von vorher behalten 0 über den Ersatzwert `alt` des Reglers, `wertVon()` in `effekte.js`) (`effekte.js`, je drei bis sechs Regler), `motor.js` rechnet in WebGL 2 bis zu drei Ebenen übereinander (Mischmodus normal, multiplizieren, Differenz, Bildschirm, überlagern; Deckkraft; Quelle Bild oder die Ebenen darunter), alles als Funktion der Zeit in einer nahtlosen Schlaufe (12, 30 oder 60 s, «Durchlauf» statt hin und zurück, «Bild zeigen: aus»); **«Neu mischen»** steht gross unter der Bühne (`rezepte.js`, würfelt nur die Effekte, das Bild bleibt), daneben «MP4 laden» (1080 × 1350, 30 fps, WebCodecs mit `vendor/mp4-muxer-5.2.2/`, sonst MediaRecorder); Pause (Leertaste, Klick auf die Bühne), Standbild (PNG 1080 × 1350), Link mit der Mischung in der Adresse `#m=` (ein eigenes Bild steht nicht im Link, ein gesichertes Werk mit seiner Kennung). **Werk sichern**: Titel (frei) und Name, dann legt `werke.php` Bild und Mischung in `animations/werke/` ab (ID.jpg mit GD neu geschrieben, ID.json, index.json; nur POST von ornament.cloud, Bild bis 2 MB und 2000 px, Name bis 40 Zeichen, Titel bis 60, Mischung nur aus bekannten Feldern, 6 Werke je Adresse und Stunde, höchstens 2000; der Browser des Erstellers behält einen Schlüssel zum Löschen). Der Ordner ist in `tools/hostpoint/ausschluss.txt` und `.gitignore` ausgenommen. Die **Werke** stehen unter dem Mischpult im gestreuten Raster (drei Kachelgrössen, Nummer, Titel, «von Name · Datum»), beim Darüberfahren lebendig, Klick lädt sie ins Mischpult (`#w=ID`), eigene lassen sich löschen; ohne Antwort der Ablage läuft die Seite weiter, nur Sichern bleibt aus. **Info**: grosse Zeile, Kolophon, «So geht es», Effekte, Ebenen. Gestaltung nach `animations/DESIGN.md`: dunkler Grund `#0b090a` wie /gamma, hell nach Systemeinstellung, ein Akzent `#f08a5d`, Haarlinien, Instrument Sans und Newsreader kursiv aus `vendor/fonts/`; auf dem Handy die Ansichten als feste Leiste unten. Vorschaukarte `animations/og-animationen.jpg` (1200 × 630) erzeugt `tools/animations-og.mjs` mit dem Motor der Seite (sechs Effekte ohne Bild). Steht für sich wie PHORMA (Ausnahme in `tests/navigation.test.mjs`), `noindex`, nicht in der Sitemap und nicht verlinkt, bis Christian sie freigibt. Tests: `node --test tests/animations.test.mjs`, `NODE_PATH=$(npm root -g) node tests/animations.e2e.mjs` (werke.php vorgetäuscht) und `node --test tests/animations-php.test.mjs` (braucht php, sonst übersprungen)
   **Schrift über dem Video** (seit 19. Oktober 2026, Wunsch: «Wenn du schon die Website einrichtest, dann möchte ich auch Schrift über die Videos legen können, viele coole moderne Schriften»; `schrift.js`): beliebig viele Ebenen mit Text (mehrzeilig), Schrift, Grösse (Anteil der kürzeren Seite), Laufweite, Versalien, Farbe, Stil (schlicht, Kontur, Schatten, Balken, Leuchten; mit zweiter Farbe), Ausrichtung, Lage (neun Felder oder in der Vorschau ziehen), Zeitfenster und Auftritt (sofort, einblenden, tippen, gleiten, Zoom); gemerkt (`hochrendern.ebenen`). Gezeichnet auf einer Leinwand in der Grösse des Ergebnisses – im Export also in voller Auflösung, auch über dem hochgerechneten Bild. «× 1» setzt nur die Schrift, ohne Netz und ohne Grafikkarte. 24 Schriften lokal: Inter Display aus dem Bestand und 23 aus `vendor/schriften/` (Grotesk, Plakat, Serif, Mono, Effekt, Hand; je ein Schnitt, latin und latin-ext, SIL Open Font License, Permanent Marker Apache 2.0, die Lizenzen in `vendor/schriften/lizenzen/`), geholt mit `node tools/schriften-holen.mjs` aus den npm-Paketen von Fontsource.
   Tests: `node --test tests/hochrendern.test.mjs` und `NODE_PATH=$(npm root -g) node tests/hochrendern.e2e.mjs` (WebGPU über SwiftShader)
 - `src/doppelspalt/` – Produktionspaket (verbindliche Quelle der 20 + 20 Personen und der Konstellationen)
